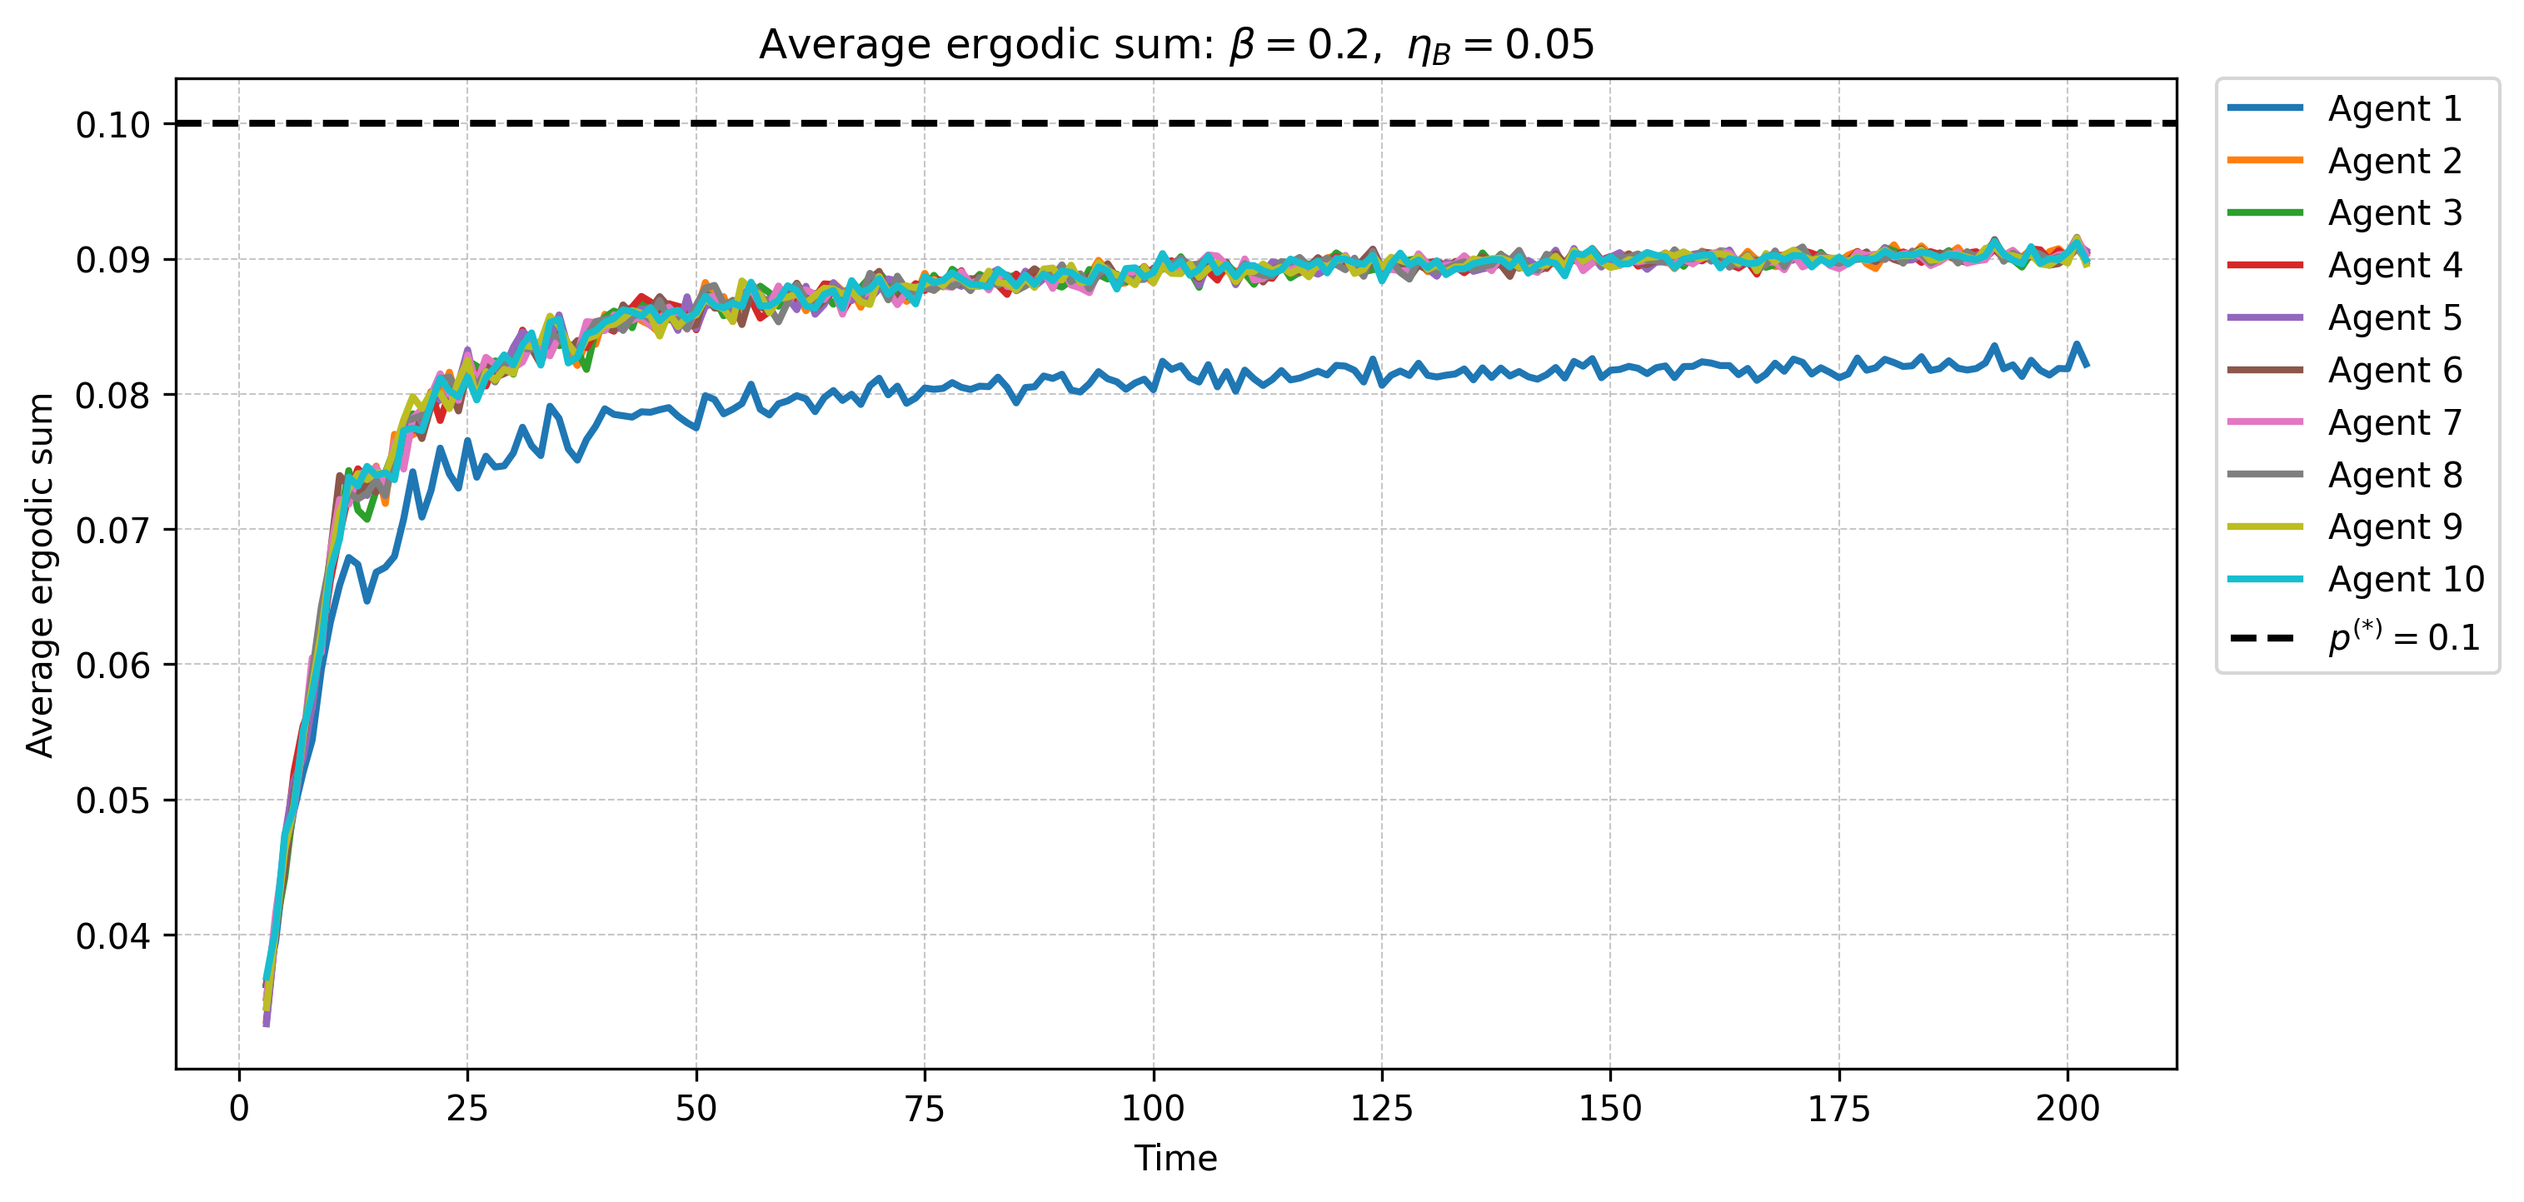
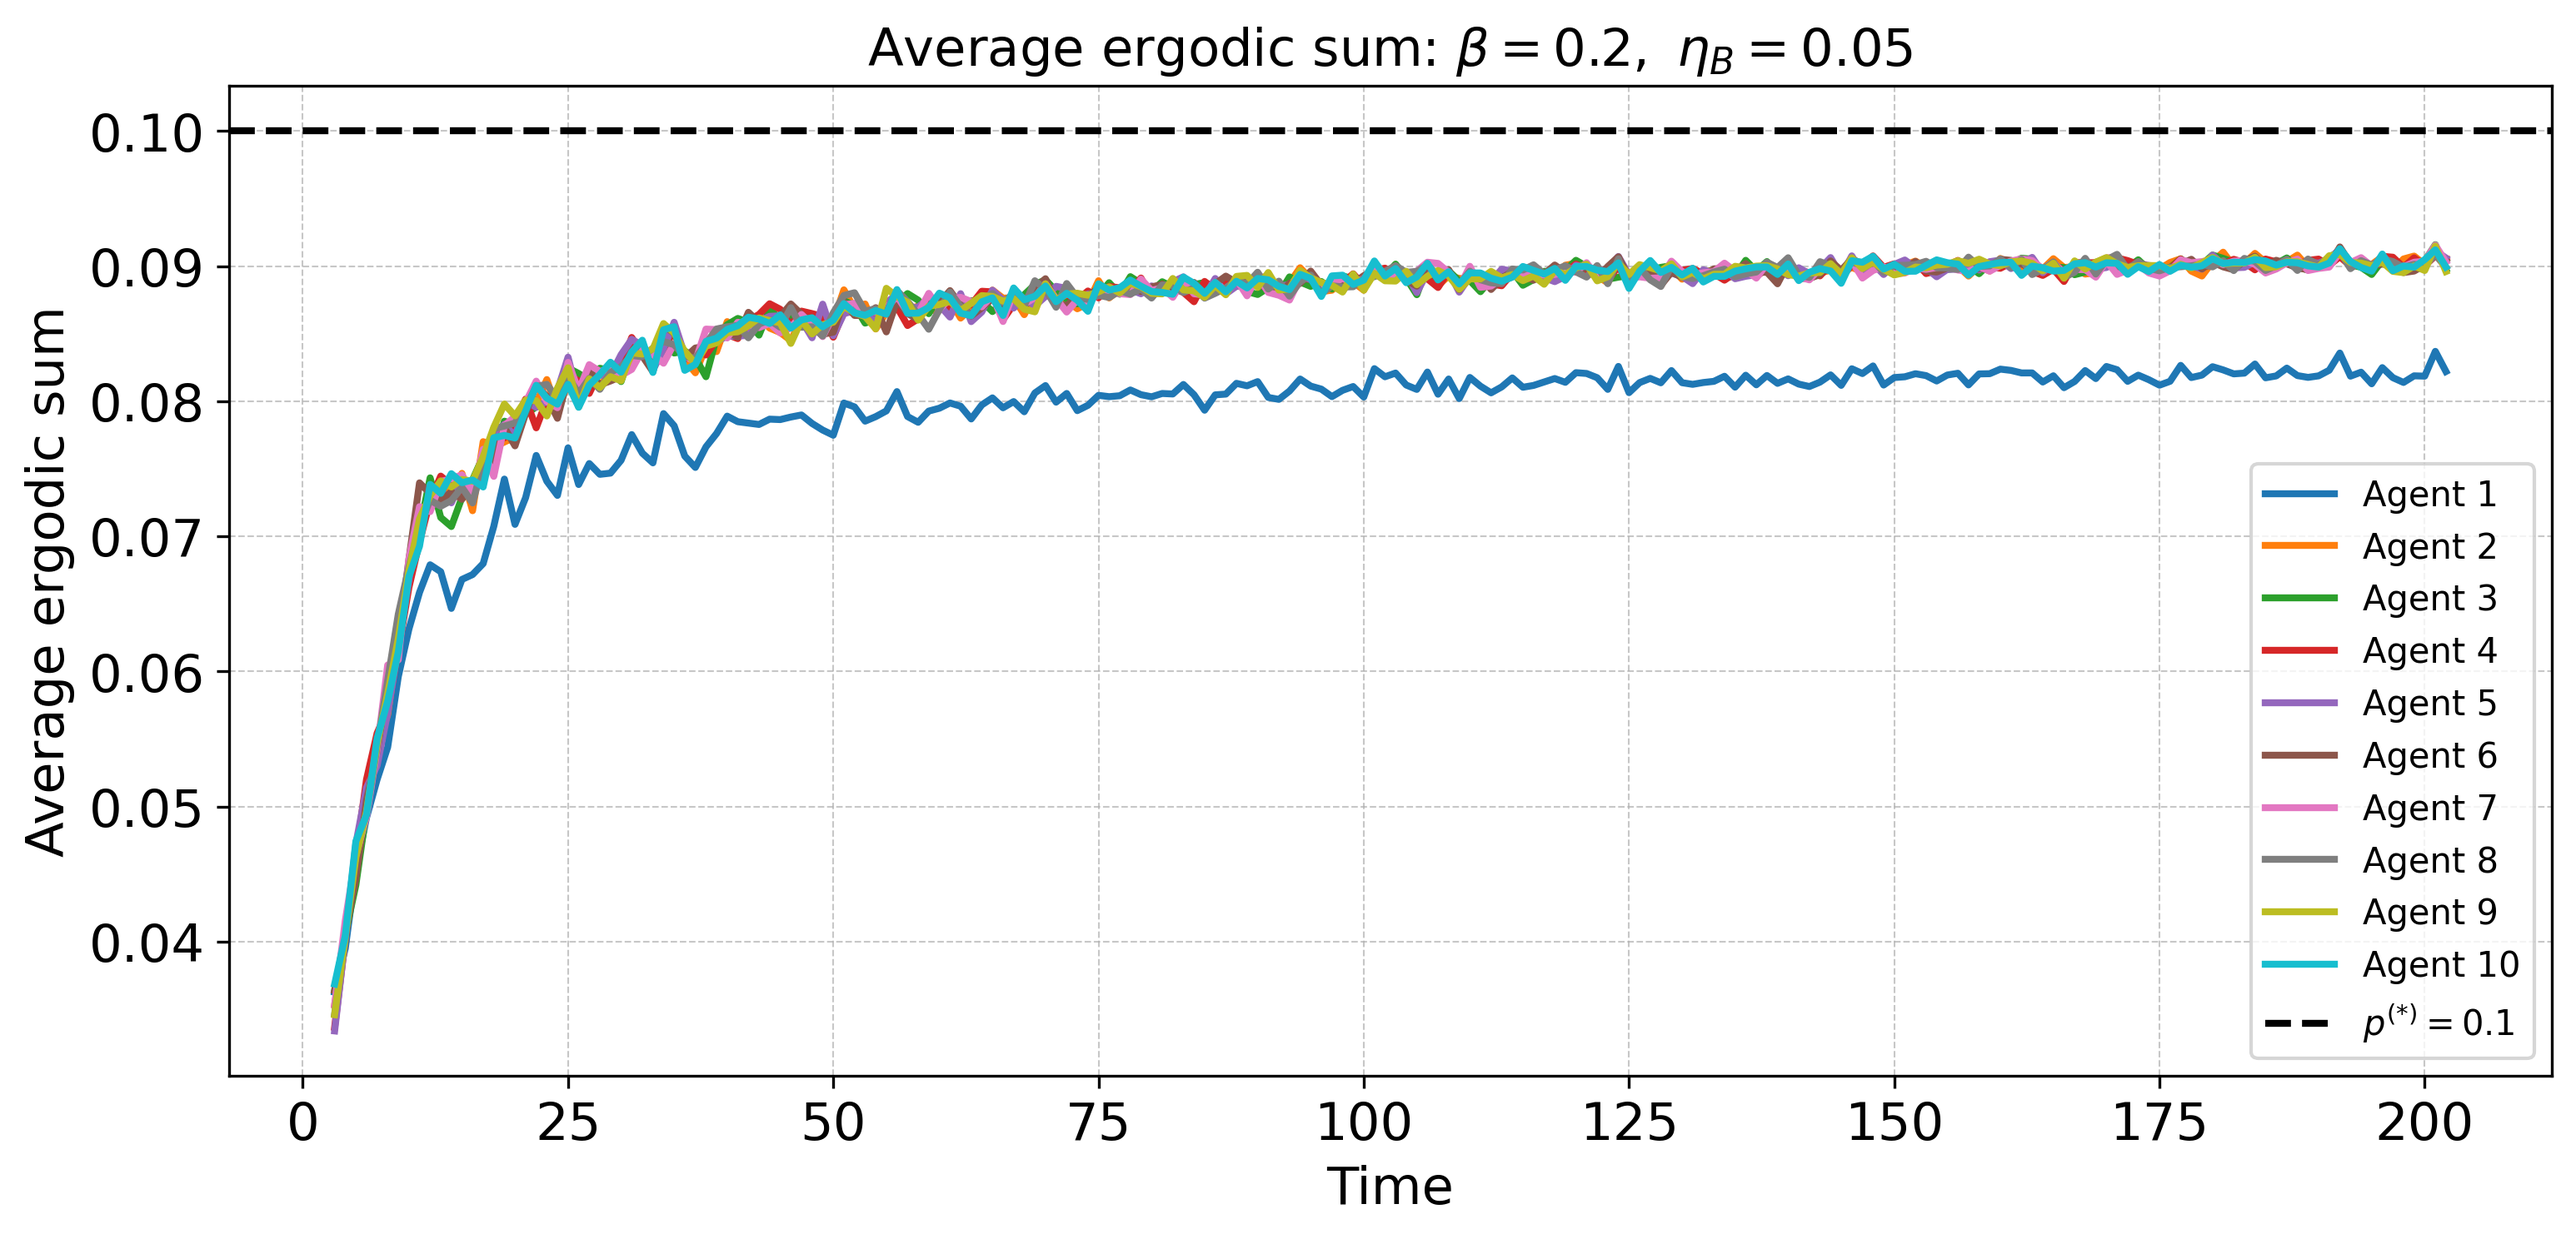
increased font size of lengends and plot titles

Changed region(s): [[0.0, 0.0, 0.9927, 0.9667], [0.031, 0.1871, 0.0931, 0.2495]]

diff --git a/src/simulations/test.py b/src/simulations/test.py
@@ -2,7 +2,7 @@ import numpy as np
 import matplotlib.pyplot as plt 
 Time = 200
 N=10
-all_means = np.load("data/all_means_N10_M5_homo_hub_spoke.npy")
+all_means = np.load("data/all_means_N10_M5_homo_hub_spoke_bot_.npy")
 
 time = np.arange(3, Time + 3)
 
@@ -16,13 +16,13 @@ for node in range(N):
         linewidth=2,
         label=f"Agent {node+1}"
     )
-#plt.axhline(
-#    y=0.1,
-#    color="black",
-#    linestyle="--",
-#    linewidth=2,
-#    label=r"$p^{(*)}=0.1$"
-#)
+plt.axhline(
+    y=0.1,
+    color="black",
+    linestyle="--",
+    linewidth=2,
+    label=r"$p^{(*)}=0.1$"
+)
 plt.legend(
     loc="lower right",
     fontsize=10,
@@ -31,17 +31,19 @@ plt.legend(
 
 plt.tight_layout()
 
-plt.xlabel("Time")
-plt.ylabel("Average ergodic sum")
+plt.xlabel("Time",fontsize=15)
+plt.ylabel("Average ergodic sum",fontsize=15)
+plt.xticks(fontsize=15)
+plt.yticks(fontsize=15)
 plt.grid(True, linestyle="--", linewidth=0.5, alpha=0.7)
 
-#plt.title(
-#    rf"Average ergodic sum: $\beta = 0.2,\ \eta_B = 0.05$"
+plt.title(
+    rf"Average ergodic sum: $\beta = 0.2,\ \eta_B = 0.05$",fontsize=15
 
-#)
+)
 
 plt.savefig(
-    "figures/all_means_N10_M5_homo_hub_spoke.png",
+    "figures/all_means_N10_M5_homo_hub_spoke_bot.png",
     dpi=300,
     bbox_inches="tight"
 )

diff --git a/src/simulations/memory_comparison.py b/src/simulations/memory_comparison.py
@@ -45,14 +45,16 @@ for agent in range(3):
         label=f"Agent {agent+1}, M=5"
     )
 
-plt.xlabel("Time")
-plt.ylabel("Average ergodic sum")
+plt.xlabel("Time",fontsize=15)
+plt.ylabel("Average ergodic sum",fontsize=15)
+plt.xticks(fontsize=15)
+plt.yticks(fontsize=15)
 plt.grid(True, linestyle="--", linewidth=0.5, alpha=0.7)
 plt.legend(
     loc="lower center",
     bbox_to_anchor=(0.5, 1.02),
     ncol=3,
-    fontsize=8,
+    fontsize=15,
     frameon=True
 )
 
